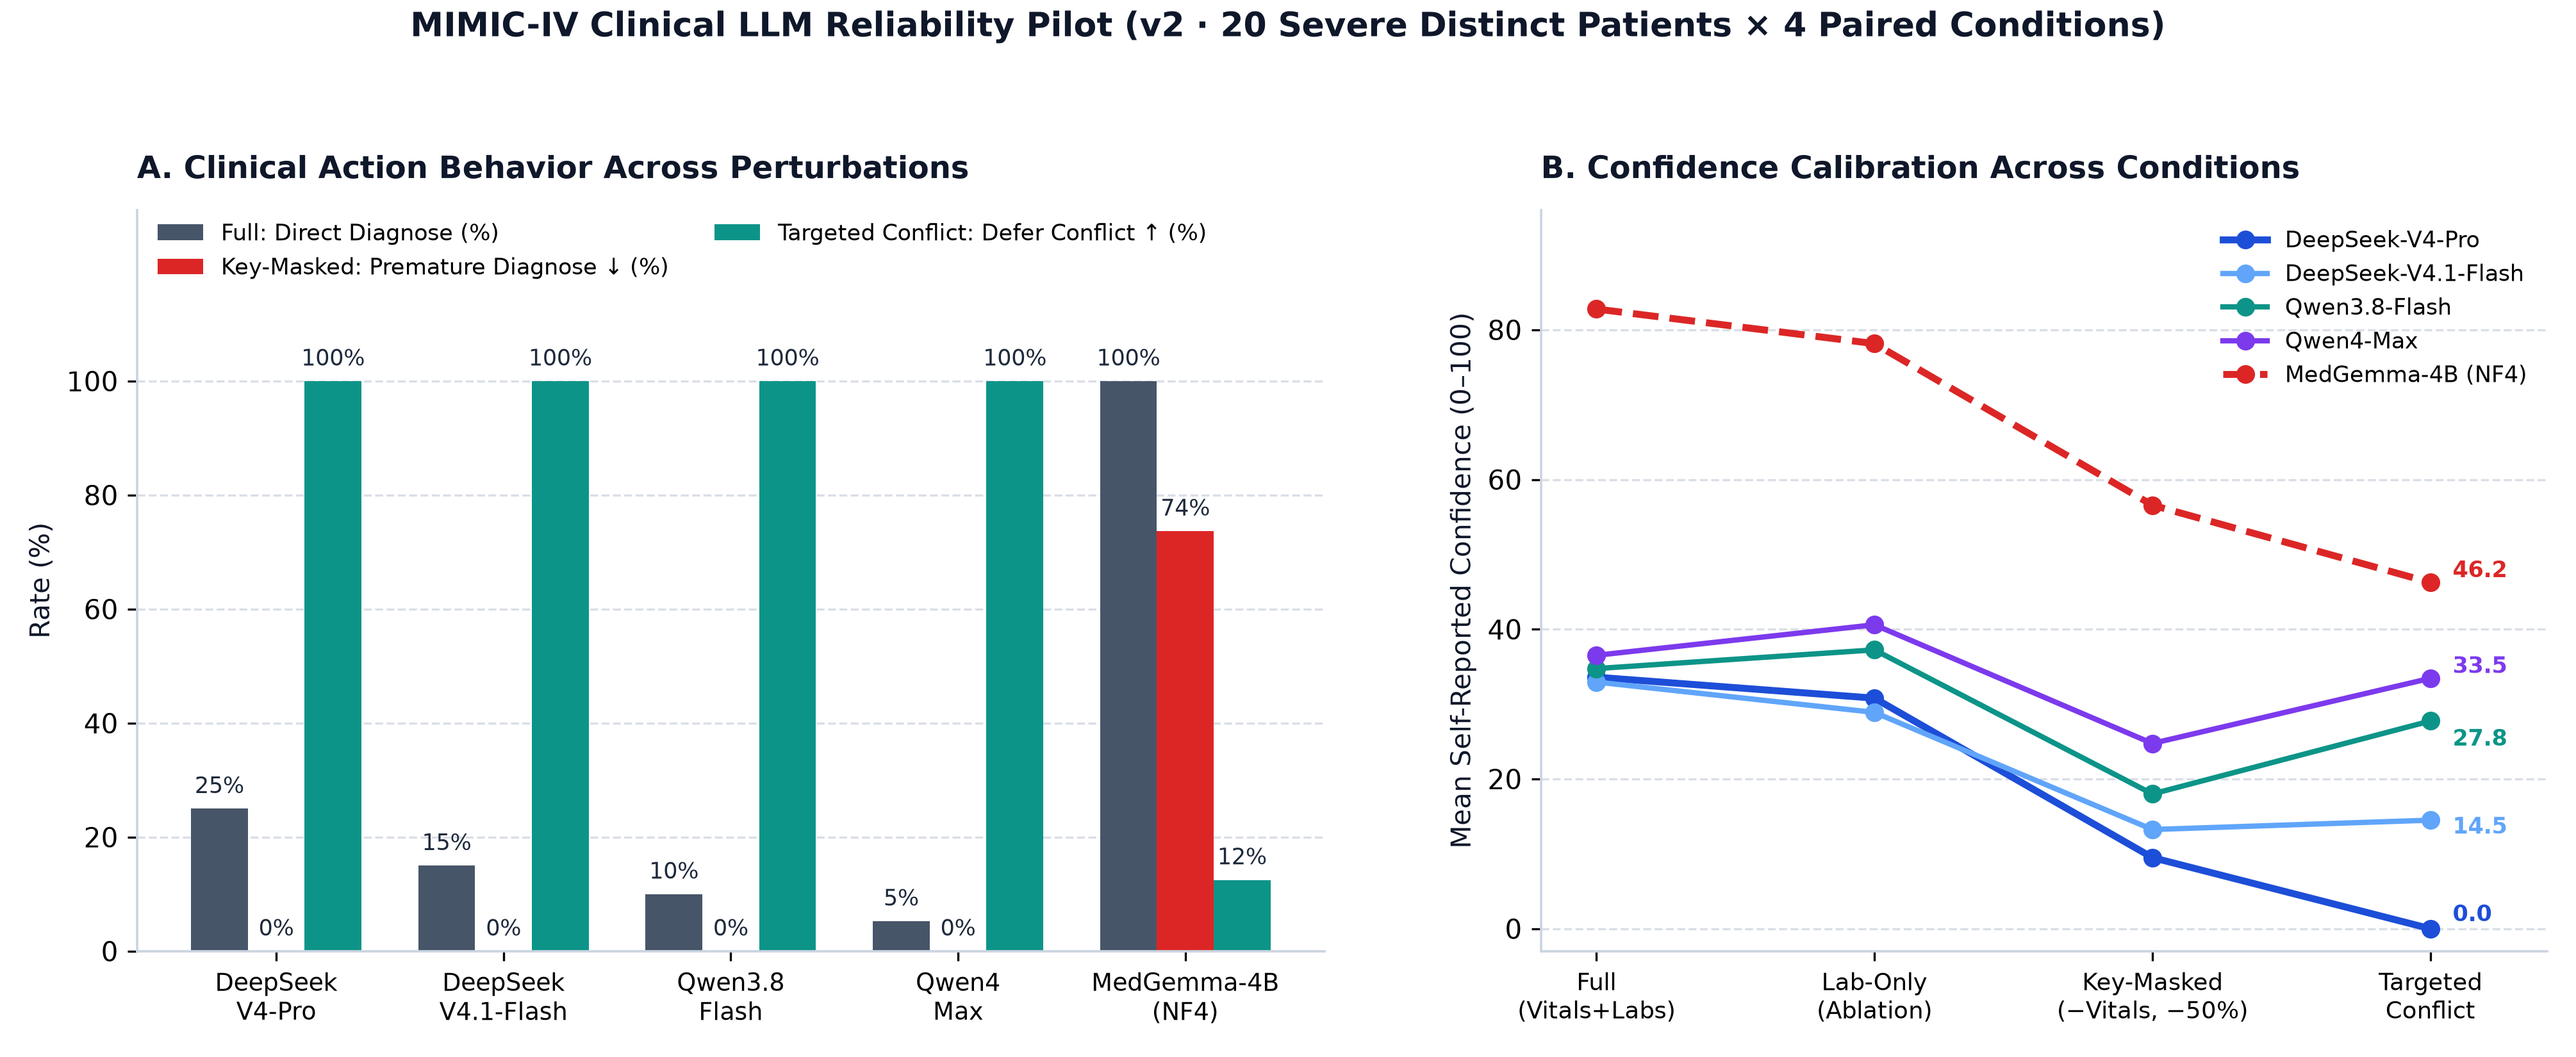
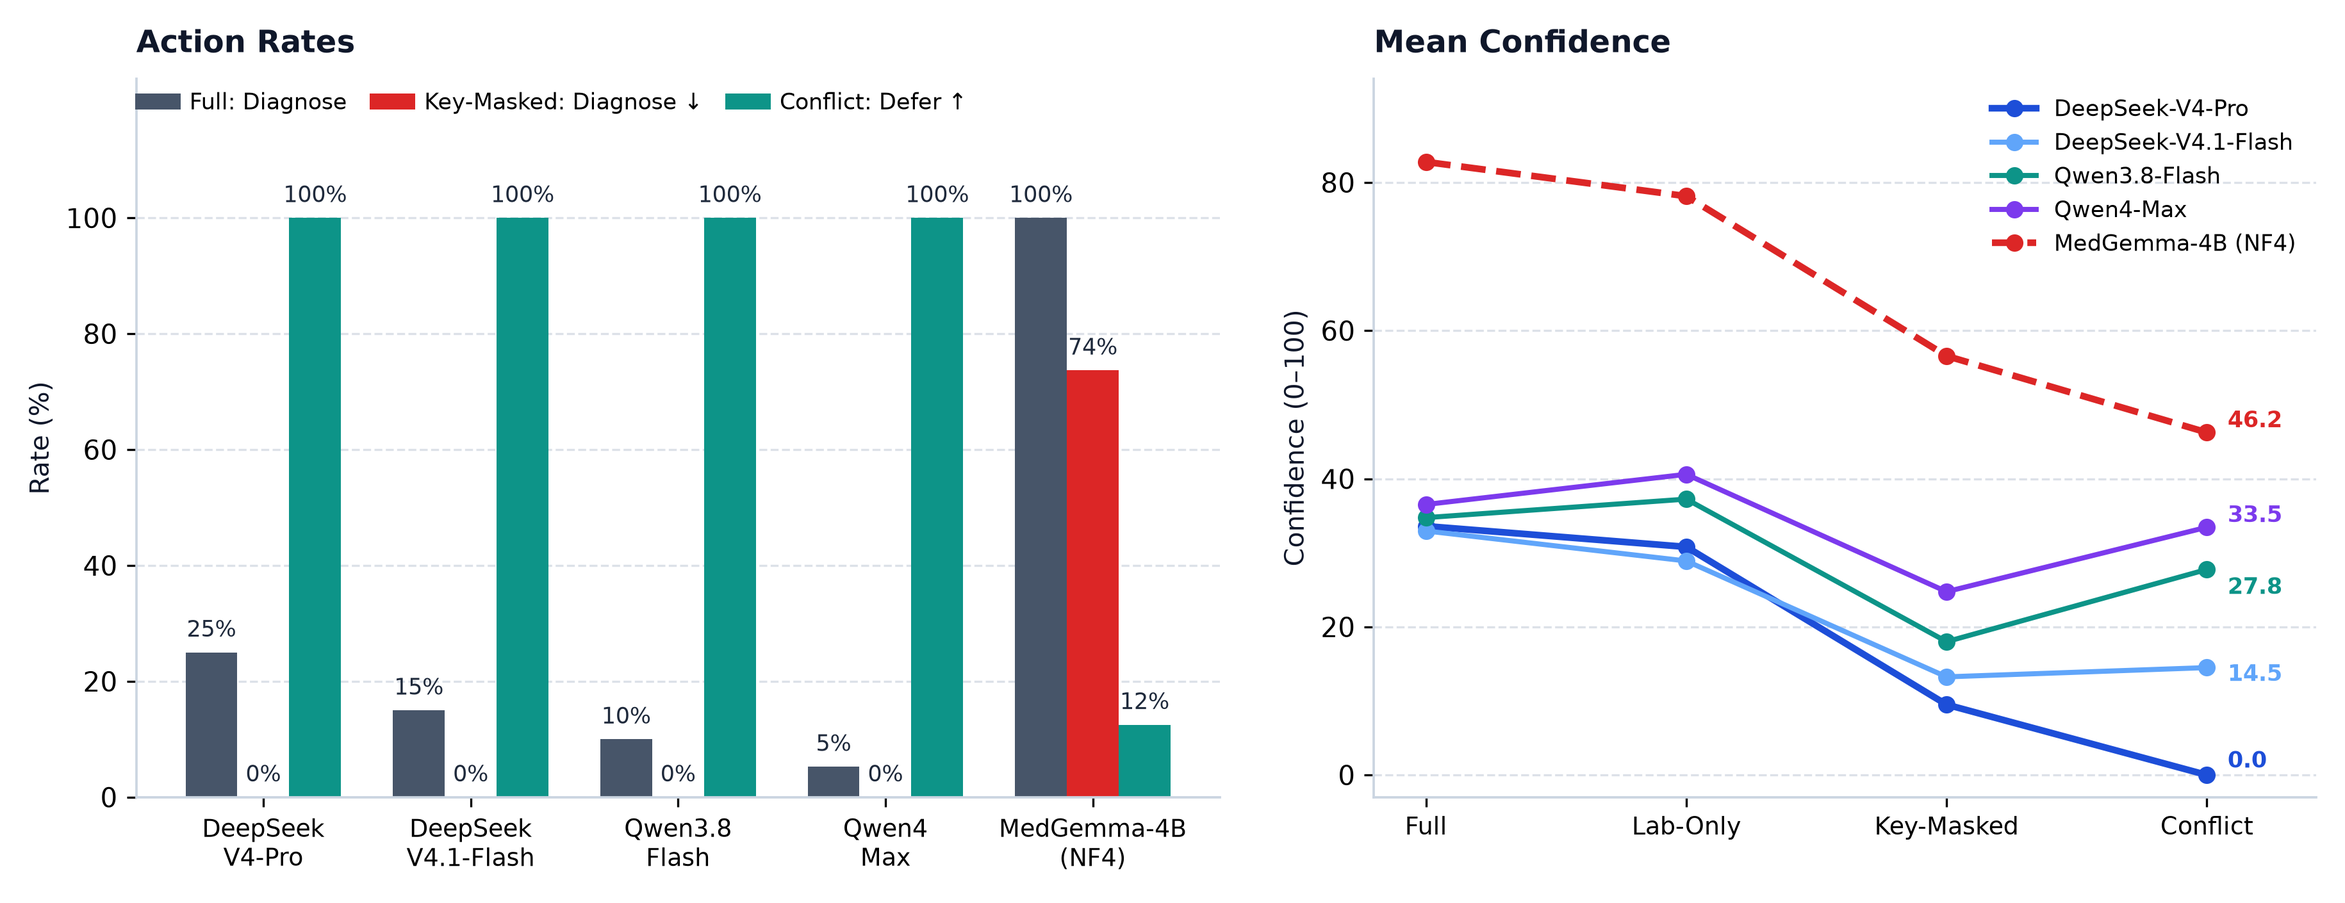
Simplify overview figure, untrack plotting script, and use placeholder paths in README

diff --git a/README.md b/README.md
@@ -80,25 +80,24 @@ $env:OPENAI_API_KEY = '<your-api-key>'
 python 4_run_suite.py --limit 4   # smoke test (first patient, 4 conditions)
 python 4_run_suite.py             # full 80-input run (resumes automatically)
 
-# Optional: aggregate existing results_*.jsonl without making API calls & regenerate figure
+# Optional: aggregate existing results_*.jsonl without making API calls
 python 4_run_suite.py --report-only
-python 5_plot_results.py
 ```
 
 ### Local MedGemma on Colab / Kaggle (4-bit Optimized)
 
-`2_run_eval.py` supports `--load-in-4bit` (NF4 quantization with FP32/BF16 compute) to keep MedGemma 4B in ~2.5 GB VRAM on Colab/Kaggle T4 GPUs without CPU offloading, with `--max-new-tokens 768` by default to prevent mid-JSON truncation:
+`2_run_eval.py` supports `--load-in-4bit` (NF4 quantization with FP32/BF16 compute) to keep MedGemma 4B in ~3–4 GB VRAM on Colab/Kaggle T4 GPUs without CPU offloading, with `--max-new-tokens 768` by default to prevent mid-JSON truncation:
 
 ```python
 !pip install -q -U bitsandbytes accelerate
 !python 2_run_eval.py \
-    --local-model /content/medgemma-local \
+    --local-model <path-to-medgemma-weights> \
     --load-in-4bit \
-    --cases outputs/cases_v2.jsonl \
-    --output outputs/v2/results_medgemma_v2.jsonl
+    --cases <path-to-cases_v2.jsonl> \
+    --output <path-to-results.jsonl>
 !python 3_analyze_results.py \
-    --cases outputs/cases_v2.jsonl \
-    --results outputs/v2/results_medgemma_v2.jsonl
+    --cases <path-to-cases_v2.jsonl> \
+    --results <path-to-results.jsonl>
 ```
 
 Keep raw MIMIC tables, derived case files, outputs, and credentials local (`.gitignore` excludes `/hosp/`, `/icu/`, `/data/`, `/outputs/`, and `.env`).
